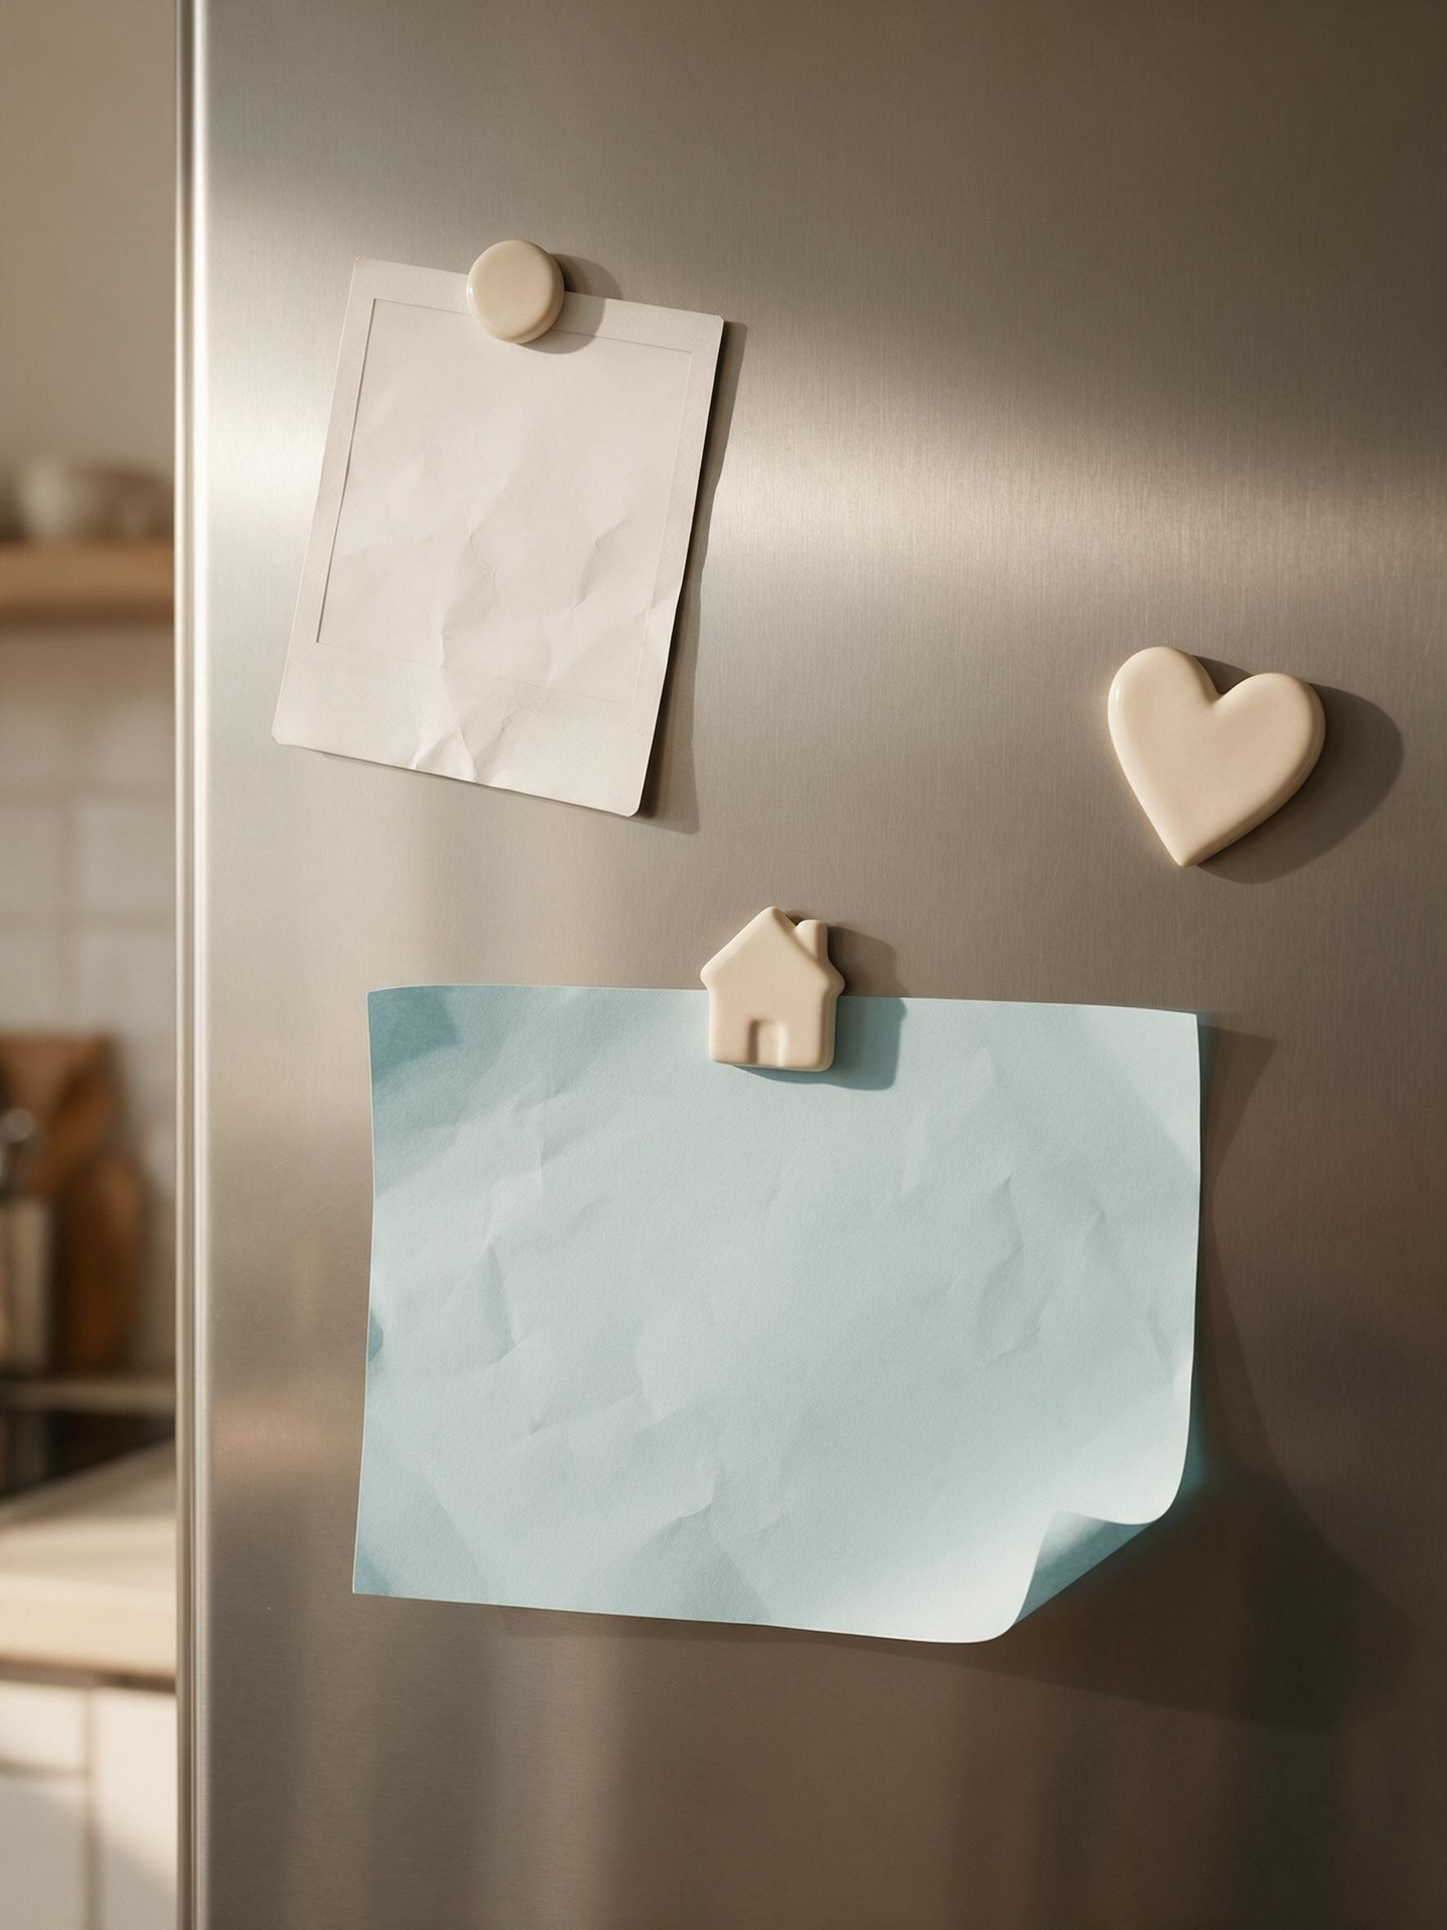
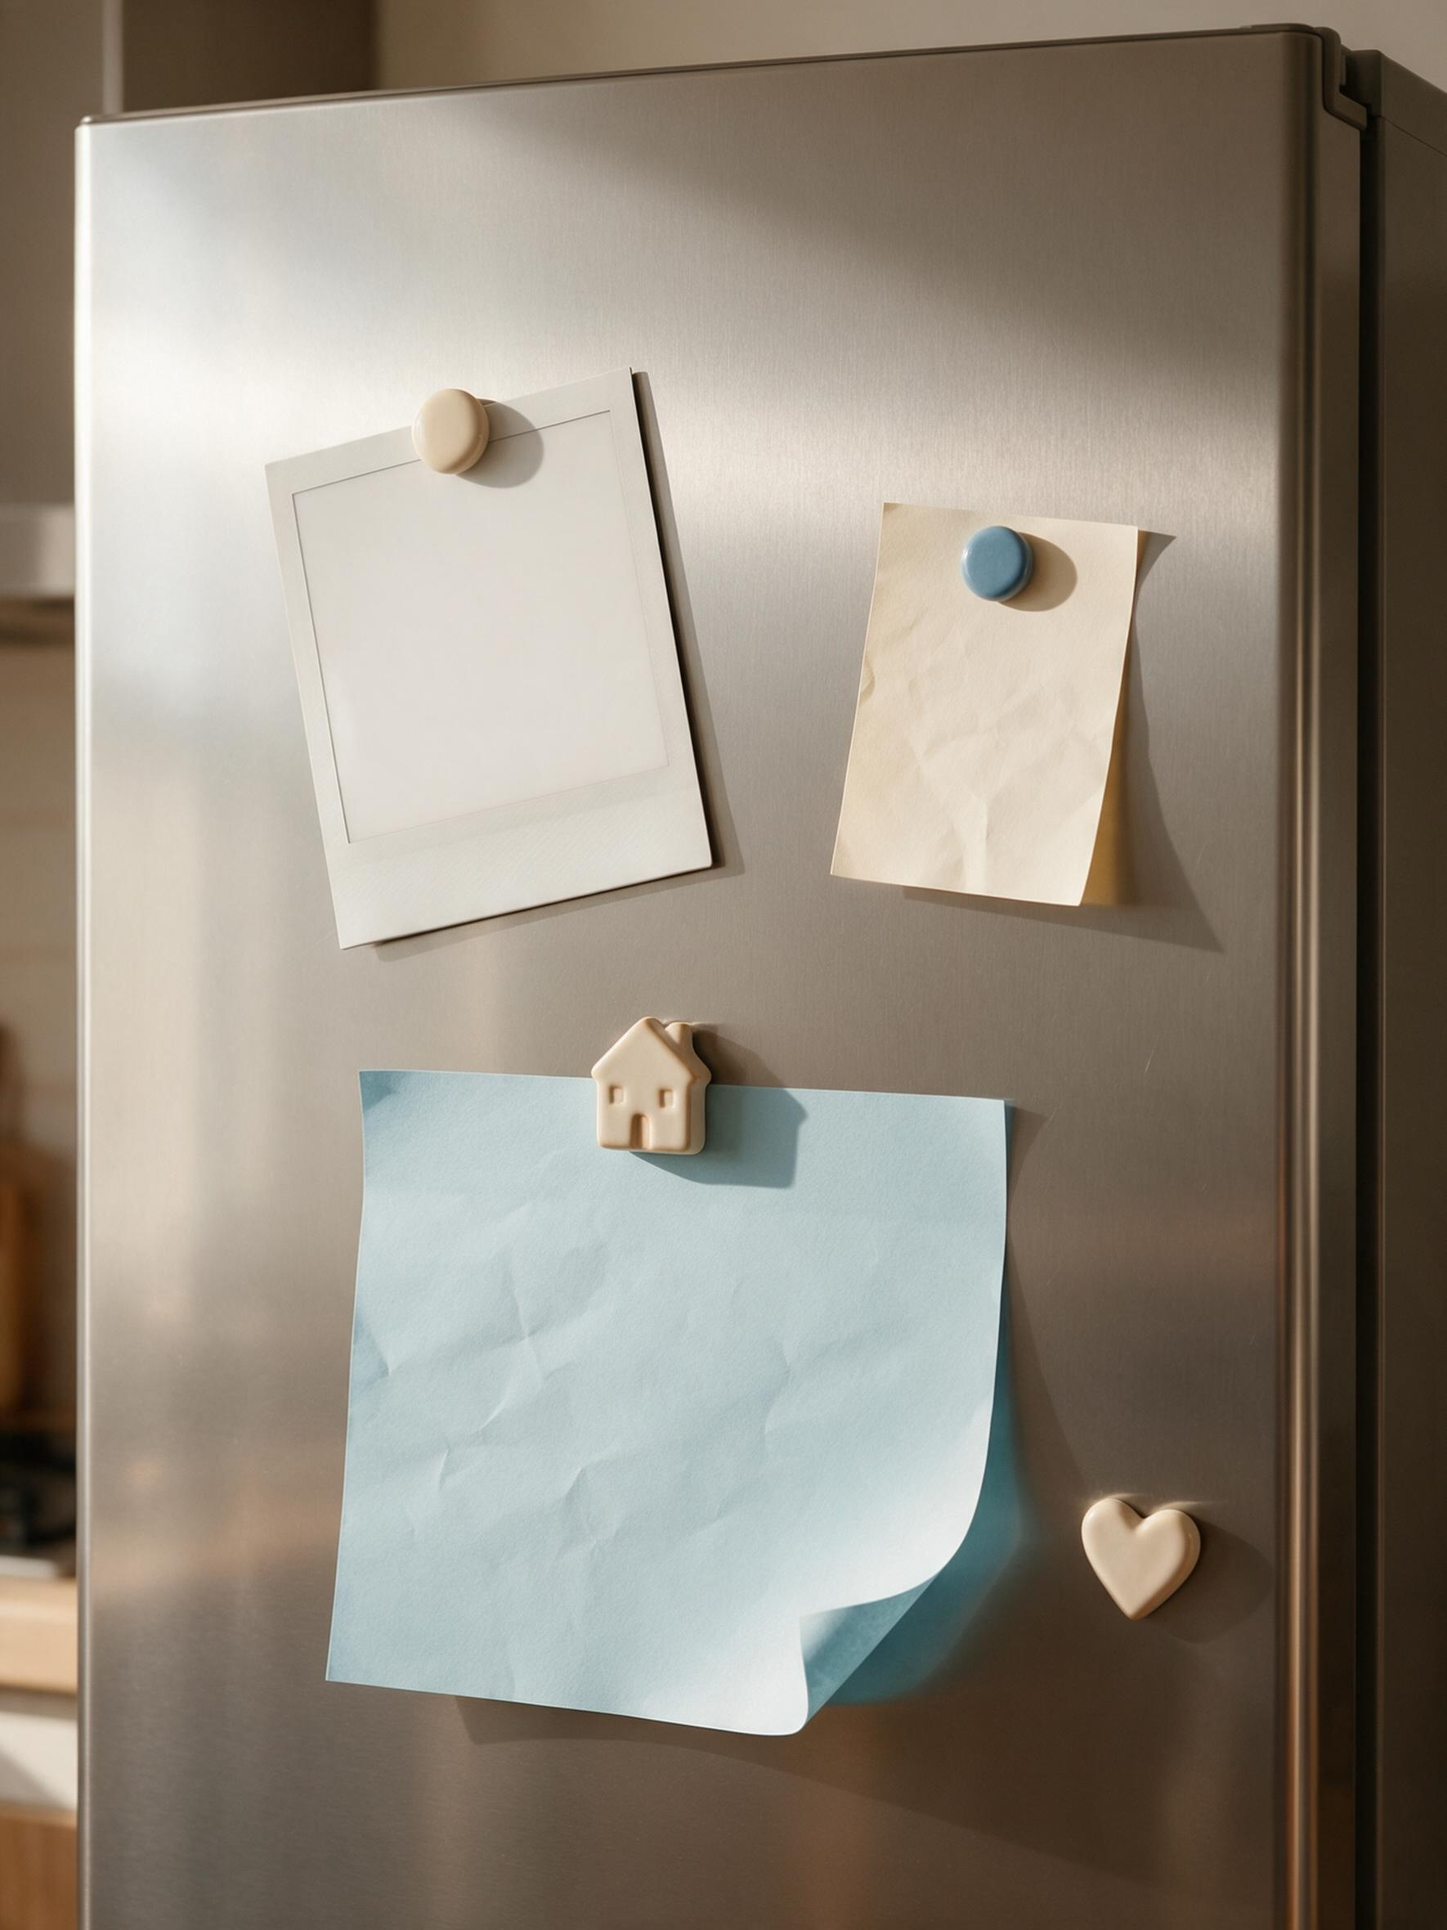
TIERRA CALMA: el dato comercial tambien pasa a ser un papel del refrigerador
"El texto de Aprox. 5.000 m² tambien que sea un post-it." Estaba en un recuadro
de marca flotando sobre el acero, y eso mezclaba DOS LENGUAJES sobre el mismo
objeto: papel y grafica. Se regenero la escena con TRES papeles -- polaroid,
nota crema y post-it grande, mas el iman de casita y el corazon -- y el dato
quedo escrito a mano en la nota crema, igual que la referencia.

Sigue valiendo el reparto: la IA hace el objeto, el codigo pone el texto. Los
tres papeles se generaron en blanco.

El post-it nuevo es mas alto y con el encuadre de siempre cerraba en la fila
1243, metiendose bajo la pildora del marco (1212). Con foco 50% 92% -- 83 px de
recorte arriba en vez de 45 -- cierra en 1205 y la polaroid arranca en 180,
justo donde termina el logo. Las tres cajas y las tres inclinaciones quedan
escritas en el codigo: un papel torcido con una foto derecha se desborda por una
esquina y delata el montaje.

DOS AGUJEROS DEL QA, y el segundo lo abri yo:

1. El extractor NO leia las cifras. El dato viaja como {sinPartir("Aprox. 5.000
   m²")} y la pasada de respaldo borra todo lo que esta entre llaves antes de
   mirar, asi que la compuerta no veia los NUMEROS -- justo lo que la lista
   blanca existe para vigilar. Ahora rescata el literal de cualquier llave que
   traiga una sola cadena y nada de JSX: cubre el caso general sin perseguir el
   nombre del ayudante.

2. Y eso metio los COMENTARIOS del codigo al QA. Los comentarios de estas
[…]

diff --git a/src/compositions/tierracalma/OctubreV3.tsx b/src/compositions/tierracalma/OctubreV3.tsx
@@ -1501,51 +1501,55 @@ const L: React.FC = () => (
 // =============================================================================
 
 /**
- * ⭐ M · 29/10 · POST — post-its REALES pegados al refrigerador.
+ * ⭐ M · 29/10 · POST — los tres papeles del refrigerador.
  *
- * Diego, 24-09-2026: *"el post del 29-10 tiene que ser post-it pegados en el
- * refrigerador como la referencia, **que se vea real**"*.
+ * Diego, 24-09-2026: *"tiene que ser post-it pegados en el refrigerador como la
+ * referencia, **que se vea real**"* y, después, *"el texto de Aprox. 5.000 m²
+ * también que sea un post-it"*.
  *
  * ⛔ EL REPARTO DEL TRABAJO ES LA REGLA, NO UN DETALLE:
  *
- *   · **La IA hace el OBJETO** — la puerta, la polaroid, el post-it con su
- *     esquina enrollada, los imanes, la sombra de contacto y la textura del
- *     papel. Eso es ambiente y utilería.
- *   · **El código pone el CONTENIDO** — la fotografía dentro de la ventana de
- *     la polaroid y la letra encima del papel. Eso es dato, y el dato **nunca**
- *     lo escribe la IA (manual de sistema § jerarquía de imagen).
+ *   · **La IA hace el OBJETO** — la puerta, los tres papeles con su textura,
+ *     arrugas, esquina enrollada y sombra de contacto, y los imanes.
+ *   · **El código pone el CONTENIDO** — la fotografía dentro de la ventana de la
+ *     polaroid y la letra encima de cada papel. Eso es dato, y el dato **nunca**
+ *     lo escribe la IA.
  *
- * Por eso el fondo se generó con **todos los papeles en blanco**, y por eso el
- * prompt lo dice tres veces: basta que el modelo escriba una palabra para que la
- * pieza quede con texto que nadie aprobó.
+ * Por eso el fondo se generó con **los tres papeles en blanco**, y el prompt lo
+ * dice tres veces: basta que el modelo escriba una palabra para que la pieza
+ * quede con texto que nadie aprobó.
  *
- * El intento anterior dibujaba el post-it con CSS —un rectángulo con una esquina
- * falsa— y leía como tarjeta digital, no como papel. La diferencia no estaba en
- * la tipografía: estaba en que **el objeto no era un objeto**.
+ * El dato comercial ya no va en un recuadro de marca flotando sobre el acero:
+ * **va escrito en la nota crema**, que es lo que Diego pidió. Es la única forma
+ * de que la pieza no mezcle dos lenguajes —papel y gráfica— sobre el mismo
+ * objeto.
  *
- * ⛔ LO QUE NO SE COPIÓ de la referencia: su segunda nota dice «Sueña ·
- * Planifica · Hazlo · Realidad». Ese copy no está en el brief, y el texto de una
- * pieza de cliente sale literal del brief.
+ * ⛔ LO QUE NO SE COPIÓ de la referencia: su nota chica dice «Sueña · Planifica ·
+ * Hazlo · Realidad». Ese copy no está en el brief.
  *
- * ⚠ GEOMETRÍA MEDIDA sobre `m-refri.jpg` (1770×2360) y pasada al lienzo con el
- * `cover` de 1080×1350 — escala 0,610, recorte de 45 px arriba:
+ * ⚠ GEOMETRÍA MEDIDA sobre `m-refri.jpg` (1770×2360), pasada al lienzo con
+ * `cover` de 1080×1350 — escala **0,610** y `foco="50% 92%"`, que recorta **83
+ * px** arriba. Ese 92 % no es estético: con el 50 % de siempre el post-it
+ * cerraba en la fila 1243 y **se metía bajo la píldora del marco** (1212).
  *
- *   ventana de la polaroid   origen x 389-847  y 368-788   → lienzo 237-517 · 180-436
- *   post-it                  origen x 431-1430 y 1215-1975 → lienzo 263-872 · 696-1160
- *   esquina enrollada        origen x 1150+    y 1750+     → lienzo x 701+ · y 1023+
+ *   ventana polaroid  origen 366-818 · 578-985    → lienzo 223-499 · 270-518
+ *   nota crema        origen 1028-1405 · 632-1098 → lienzo 627-857 · 303-587
+ *   post-it           origen 401-1251 · 1304-2112 → lienzo 245-763 · 712-1205
+ *   esquina enrollada origen x 1050+ · y 1850+    → lienzo x 558+ · y 1046+
  *
- * La última línea **no puede pasar de x ≈ 690** si cae bajo la fila 1023: ahí
- * empieza el enrollado y el texto se iría con el papel.
+ * Cada papel lleva **su propia inclinación**, medida sobre el borde superior:
+ * una foto derecha sobre un papel torcido se desborda por una esquina y delata
+ * el montaje.
  */
-const POLAROID = {x: 244, y: 190, w: 266, h: 238, giro: -2.6};
-const POSTIT = {x: 263, y: 696, w: 609, h: 464, giro: -1.1};
+const POLAROID = {x: 223, y: 270, w: 276, h: 248, giro: -8};
+const NOTA = {x: 627, y: 303, w: 230, h: 284, giro: -5};
+const POSTIT = {x: 245, y: 712, w: 518, h: 493, giro: -1.5};
 
 const M: React.FC = () => (
   <Lienzo w={POST.w} h={POST.h}>
-    <Foto src={OCT("m-refri")} foco="50% 50%" />
+    <Foto src={OCT("m-refri")} foco="50% 92%" />
 
-    {/* la fotografía DENTRO de la ventana de la polaroid, con su misma
-        inclinación. `multiply` la integra al papel: sin eso se ve pegada. */}
+    {/* la fotografía DENTRO de la ventana de la polaroid, con su inclinación */}
     <div
       style={{
         position: "absolute",
@@ -1561,13 +1565,41 @@ const M: React.FC = () => (
         src={OCT("f-fondo")}
         style={{width: "100%", height: "100%", objectFit: "cover", display: "block"}}
       />
-      {/* el mismo velo cálido que tiene la escena, para que la foto no salte */}
       <AbsoluteFill style={{backgroundColor: "rgba(120,96,64,0.12)"}} />
     </div>
 
-    {/* ⭐ LA LETRA, encima del papel. `mixBlendMode: multiply` hace que la tinta
-        siga las arrugas y la sombra del post-it en vez de flotar sobre él: es
-        lo que separa una nota escrita de un texto sobrepuesto. */}
+    {/* ⭐ EL DATO COMERCIAL, escrito en la nota crema. `multiply` hace que la
+        tinta siga las arrugas del papel en vez de flotar encima. */}
+    <div
+      style={{
+        position: "absolute",
+        left: NOTA.x,
+        top: NOTA.y,
+        width: NOTA.w,
+        height: NOTA.h,
+        transform: `rotate(${NOTA.giro}deg)`,
+        // El texto tocaba el borde derecho del papel: más aire a los lados y un
+        // punto menos de cuerpo. En una nota chica el respiro es lo que la hace
+        // leerse como papel escrito y no como etiqueta.
+        padding: "50px 28px 18px",
+        mixBlendMode: "multiply",
+        fontFamily: TC.fonts.mano,
+        fontWeight: 600,
+        fontSize: 31,
+        lineHeight: 1.22,
+        color: "#16314C",
+        textAlign: "center",
+      }}
+    >
+      {sinPartir("Aprox. 5.000 m²")}
+      <br />
+      {sinPartir("desde UF 2.500")}
+      <div style={{marginTop: 12, fontWeight: 500, fontSize: 27, color: "#4A5C4E"}}>
+        {sinPartir("Padre Hurtado")}
+      </div>
+    </div>
+
+    {/* ⭐ EL POST-IT: la lista, escrita a mano sobre el papel */}
     <div
       style={{
         position: "absolute",
@@ -1576,26 +1608,27 @@ const M: React.FC = () => (
         width: POSTIT.w,
         height: POSTIT.h,
         transform: `rotate(${POSTIT.giro}deg)`,
-        padding: "46px 52px 40px",
+        padding: "52px 44px 40px",
         mixBlendMode: "multiply",
         fontFamily: TC.fonts.mano,
         color: "#16314C",
       }}
     >
-      <div style={{fontWeight: 600, fontSize: 52, lineHeight: 1.08, marginBottom: 20}}>
+      <div style={{fontWeight: 600, fontSize: 46, lineHeight: 1.08, marginBottom: 20}}>
         Ese proyecto que
         <br />
         tienes en mente…
       </div>
       {["Conocer Tierra Calma", "Elegir mi parcela", "Empezar a proyectar mi casa"].map((l) => (
-        <div key={l} style={{display: "flex", alignItems: "center", gap: 14, marginBottom: 9}}>
-          <ICheck s={26} c="#16314C" />
-          <span style={{fontWeight: 500, fontSize: 40, lineHeight: 1.1}}>{sinPartir(l)}</span>
+        <div key={l} style={{display: "flex", alignItems: "center", gap: 12, marginBottom: 8}}>
+          <ICheck s={24} c="#16314C" />
+          <span style={{fontWeight: 500, fontSize: 35, lineHeight: 1.1}}>{sinPartir(l)}</span>
         </div>
       ))}
-      {/* Se corta en dos líneas a propósito: la esquina del papel se enrolla a
-          partir de x ≈ 690, y una línea larga se iría con el enrollado. */}
-      <div style={{marginTop: 16, fontWeight: 600, fontSize: 42, lineHeight: 1.1, width: 400}}>
+      {/* Cortado en dos líneas cortas a propósito: la esquina del papel se
+          enrolla desde x ≈ 558 bajo la fila 1046, y una línea larga se iría con
+          el enrollado. */}
+      <div style={{marginTop: 14, fontWeight: 600, fontSize: 37, lineHeight: 1.1, width: 300}}>
         Próximo paso:
         <br />
         hacerlo realidad.
@@ -1603,44 +1636,6 @@ const M: React.FC = () => (
     </div>
 
     <Marco archivo="MARCO-POST" />
-    {/* El dato comercial va en el HUECO entre la polaroid y el post-it: sobre el
-        acero desnudo, que es lo único que queda libre. En el post-it no puede
-        ir — una nota manuscrita con el precio deja de parecer una nota. */}
-    {/* ⚠ El dato comercial NO usa `Globo`, que va siempre centrado: acá el
-        centro está ocupado. Medido sobre el render, la puerta tiene un solo
-        hueco libre de verdad —arriba a la derecha, x 596-1000 · y 236-400—
-        porque la polaroid toma la izquierda, el corazón la franja 430-590 y el
-        post-it todo lo de abajo. Puesto al centro tapaba el imán de casita, que
-        es justo lo que sostiene la nota: la pieza dejaba de tener lógica física.
-        Y en el post-it tampoco puede ir — una nota manuscrita con el precio deja
-        de parecer una nota. */}
-    <div
-      style={{
-        position: "absolute",
-        left: 596,
-        top: 240,
-        width: 404,
-        backgroundColor: "rgba(9,20,28,0.6)",
-        backdropFilter: "blur(18px)",
-        WebkitBackdropFilter: "blur(18px)",
-        border: "1px solid rgba(255,255,255,0.18)",
-        borderRadius: 26,
-        padding: "22px 26px",
-        fontFamily: SANS,
-        fontWeight: 300,
-        fontSize: 27,
-        lineHeight: 1.3,
-        color: "#fff",
-        textAlign: "center",
-        boxShadow: "0 18px 40px rgba(0,0,0,0.3)",
-      }}
-    >
-      {sinPartir("Aprox. 5.000 m²")}
-      <br />
-      {sinPartir("desde UF 2.500")}
-      <br />
-      {sinPartir("Padre Hurtado")}
-    </div>
     <Pildora caja={POST.pill} icono={<IWsp s={23} />} size={26} gap={11}>
       Agenda tu visita por WhatsApp
     </Pildora>

diff --git a/qa/textos-tierracalma.py b/qa/textos-tierracalma.py
@@ -180,7 +180,26 @@ def textos_de(cuerpo: str) -> list[str]:
     for ini, fin in comidos:
         for k in range(max(ini, 0), min(fin, len(resto))):
             resto[k] = " "
-    plano = re.sub(r"\{(?:[^{}]|\{[^{}]*\})*\}", " ", "".join(resto))  # props y estilos
+    plano = "".join(resto)
+    # ⚠ ANTES de borrar las llaves, se RESCATA lo que traen dentro cuando es
+    # sólo una cadena — `{"texto"}` o `{sinPartir("Aprox. 5.000 m²")}`. Así
+    # viaja el dato comercial de `p-29-10`, escrito en la nota del
+    # refrigerador: son justo las CIFRAS, y si el QA no las lee la lista blanca
+    # no sirve de nada. Se rescata cualquier llave con UNA cadena y sin JSX
+    # adentro, que cubre el caso general sin perseguir el nombre del ayudante.
+    def _rescata(m: "re.Match[str]") -> str:
+        dentro = m.group(1).strip()
+        # ⛔ Un comentario JSX NO es copy. Los comentarios de estas composiciones
+        # citan al diseñador entre comillas —«"el botón está muy apretado"»— y
+        # sin este corte entraban al QA como si fueran texto de la pieza: la
+        # regla de huérfanas marcó `p-09-10` por la palabra «ancho», que está en
+        # un comentario y no en la gráfica.
+        if dentro.startswith("/*") or "<" in dentro:
+            return " "
+        lits = re.findall(r'"((?:[^"\\]|\\.)*)"', dentro)
+        return f" {lits[0]} " if len(lits) == 1 else " "
+
+    plano = re.sub(r"\{((?:[^{}]|\{[^{}]*\})*)\}", _rescata, plano)  # props y estilos
     plano = re.sub(r"<br\s*/?>", "\n", plano)
     plano = re.sub(r"<[^>]*>", " ", plano)
     plano = re.sub(r"\{[^{}]*\}", " ", plano)      # llaves que quedaron abiertas

diff --git a/clients/tierra-calma/BITACORA.md b/clients/tierra-calma/BITACORA.md
@@ -5,6 +5,53 @@
 
 ---
 
+## 2026-09-24 (noche) — Diego Aguilar
+
+**Qué se hizo:** `p-29-10`, tercera vuelta. *"El texto de Aprox. 5.000 m²
+también que sea un post-it."*
+
+El dato estaba en un recuadro de marca flotando sobre el acero, y eso mezclaba
+**dos lenguajes sobre el mismo objeto**: papel y gráfica. Se regeneró la escena
+con **tres papeles** —polaroid, nota crema y post-it grande, más el imán de
+casita y el corazón—, igual que la referencia, y el dato quedó **escrito a mano
+en la nota crema**.
+
+Sigue valiendo el reparto: **la IA hace el objeto, el código pone el texto**.
+Los tres papeles se generaron en blanco.
+
+### Lo que hubo que medir
+
+El post-it nuevo es más alto y con el encuadre de siempre (`50% 50%`) cerraba en
+la fila 1243, **metiéndose bajo la píldora del marco** (1212). Con
+`foco="50% 92%"` —83 px de recorte arriba en vez de 45— el papel cierra en 1205
+y la polaroid arranca justo en 180, que es donde termina el logo. Las tres cajas
+y las tres inclinaciones están escritas en el código.
+
+### Dos agujeros del QA, y el segundo lo abrí yo
+
+1. **El extractor no leía las cifras.** El dato viaja como
+   `{sinPartir("Aprox. 5.000 m²")}` y la pasada de respaldo borra todo lo que
+   está entre llaves antes de mirar. O sea que la compuerta no veía **los
+   números**, que es justo lo que la lista blanca existe para vigilar. Ahora la
+   pasada **rescata** el literal de cualquier llave que traiga una sola cadena y
+   nada de JSX: cubre el caso general sin perseguir el nombre del ayudante.
+2. ⚠ **Y eso metió los comentarios del código al QA.** Los comentarios de estas
+   composiciones citan a Diego entre comillas, así que la regla de huérfanas
+   marcó `p-09-10` por la palabra «ancho» —que está en un comentario, no en la
+   gráfica—. Se descartan las llaves que empiezan con `/*`.
+
+> 💡 El aviso falso duró una corrida porque **la compuerta se miró después de
+> tocarla**. Un QA que se cambia y no se vuelve a correr es peor que no tenerlo:
+> deja de medir la pieza y empieza a medirse a sí mismo.
+
+**Dónde quedó:** `p-29-10` re-subida sobre el mismo fileId. Las 16 pasan con el
+aviso deliberado de siempre.
+
+**Abierto:** la tipografía manuscrita sigue esperando tu decisión — hoy es
+Caveat, que es la mano de Copywriters.
+
+---
+
 ## 2026-09-24 (tarde) — Diego Aguilar
 
 **Qué se hizo:** `p-29-10` rehecha otra vez. La versión de la mañana ya seguía la

diff --git a/clients/tierra-calma/CLAUDE.md b/clients/tierra-calma/CLAUDE.md
@@ -405,16 +405,16 @@ esquina enrollada        origen x 1150+ · y 1750+    → lienzo x 701+ · y 102
 empieza el enrollado y el texto se iría con el papel. Por eso «Próximo paso:
 hacerlo realidad» va cortado en dos líneas cortas y no en una larga.
 
-##### Dónde va el dato comercial
+##### El dato comercial va en su PROPIO papel
 
-**No en el post-it** —una nota manuscrita con el precio deja de parecer una
-nota— y **no al centro**, que es donde `Globo` lo pondría: ahí está el imán de
-casita, y taparlo rompe la lógica física de la pieza, porque es lo que sostiene
-la nota.
+Diego, 24-09: *"el texto de Aprox. 5.000 m² también que sea un post-it"*.
 
-Medido sobre el render, la puerta tiene **un solo hueco libre**: arriba a la
-derecha, `x 596-1000 · y 236-400`. La izquierda la toma la polaroid, la franja
-`430-590` el corazón y todo lo de abajo el post-it.
+Antes estaba en un recuadro de marca flotando sobre el acero, y eso mezclaba dos
+lenguajes —papel y gráfica— sobre el mismo objeto. Ahora la escena trae **tres
+papeles** y el dato va escrito en la nota crema, igual que la referencia.
+
+⛔ **No va en el post-it grande**: una nota manuscrita con el precio metido entre
+los pasos del proyecto deja de parecer una nota.
 
 #### ⛔ Y las CIFRAS tampoco se parten
 
